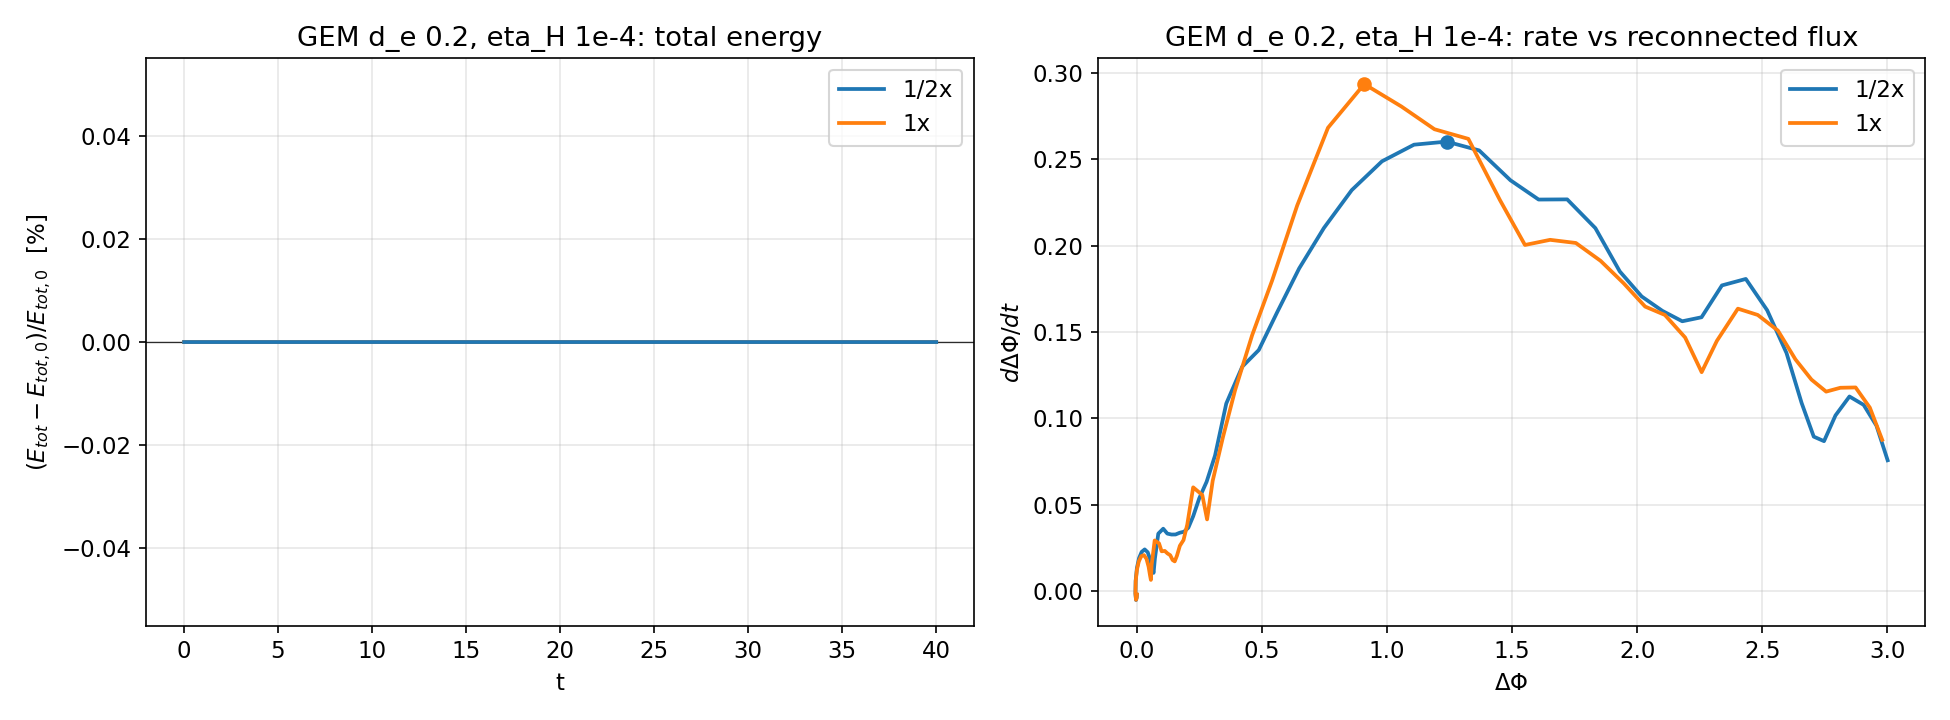
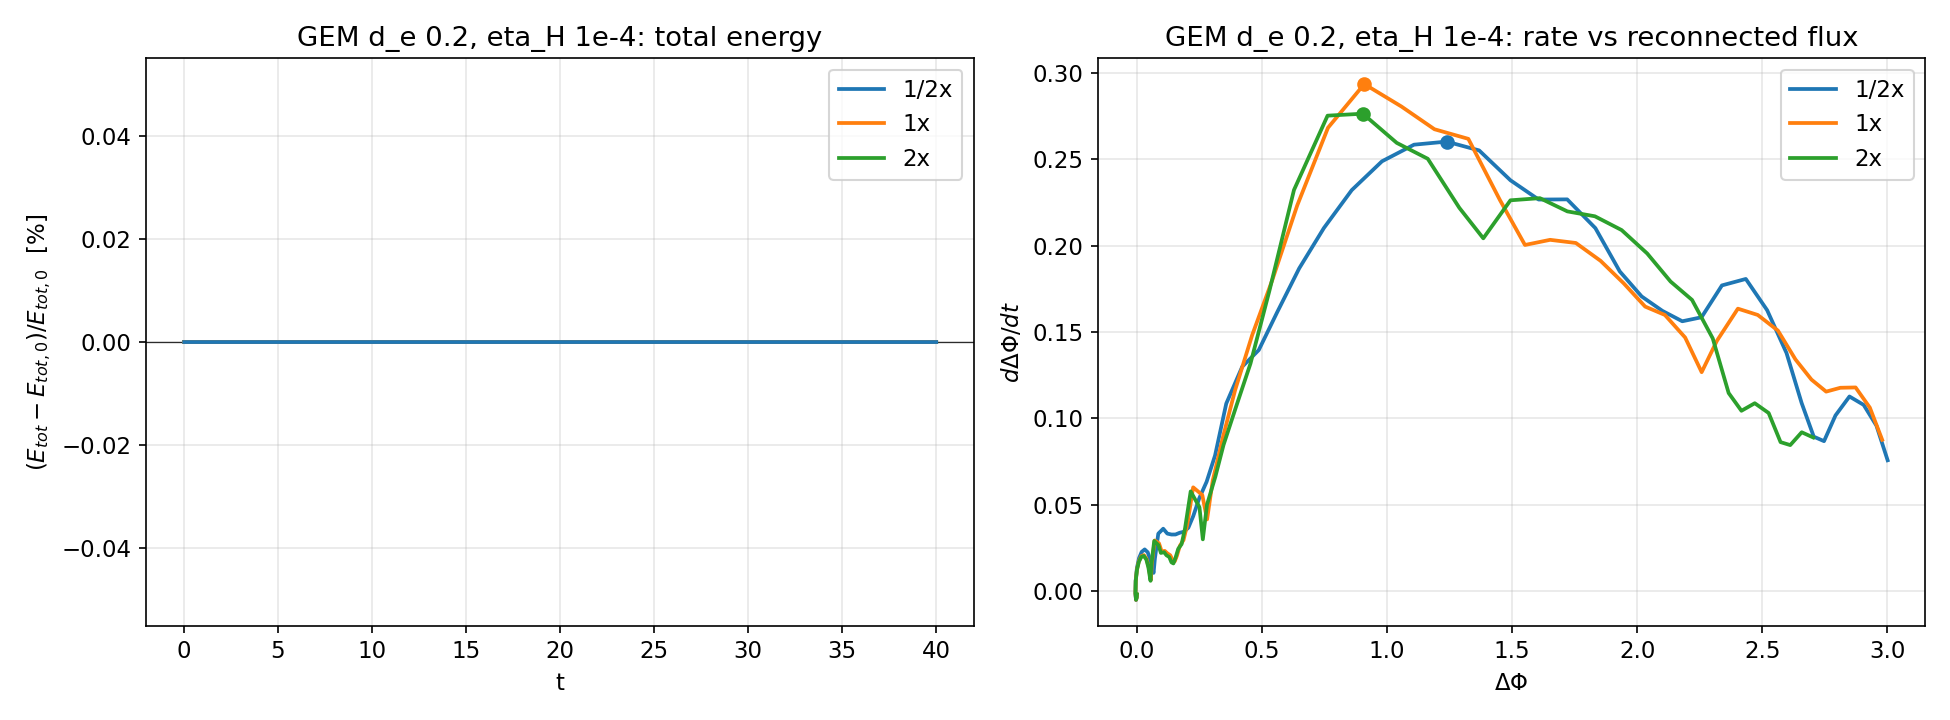
Results: 2x GEM row, figures with 1/2x, 1x and 2x
2x (d_e 0.2, eta_H 1e-4, c_whistler_inertia 0.5, to t = 40) from the development build; the
final IHMHD2d binary reproduces its EDRIFT and EM sub-step lines bit-for-bit to t = 1.
At 2x the grid-scale Hall mode is removed, but a physical-scale odd part (60-190 dx) grows
from round-off at the island onset (t = 18.5); the run is not mirror-symmetric after t = 19.

diff --git a/docs/results/results.md b/docs/results/results.md
@@ -1,6 +1,7 @@
 # IHMHD2d verification results
 
-All runs were made with the IHMHD2d binary at this commit's sources (built on macOS, MPICH, 10 ranks unless noted).
+All runs except the 2x GEM run were made with the IHMHD2d binary at this commit's sources (built on macOS, MPICH,
+10 ranks unless noted); see the GEM section for the 2x run.
 The run output is not in the repository; the numbers below are taken from it.
 
 ## Regression and unit tests (`make test`)
@@ -46,12 +47,29 @@ under x → −x, with the uncapped runs for comparison).
 |---|---|---|---|---|---|
 | ½x | 1.832 / 3.022 / 2.730 | 0.260 at t = 17.5 | 4.0e-12 / 4.7e-10 | 0 | 410 s |
 | 1x | 1.451 / 2.979 / 2.782 | 0.294 at t = 18.0 | 3.4e-11 / 4.6e-10 | 0 | 1772 s |
-| 2x | pending | pending | pending | pending | pending |
+| 2x | 1.289 / 2.770 / 2.381 | 0.276 at t = 18.5 | 2.7e-4 / 1.4e-2 | 0 | 4945 s |
 
-Without the capped upwinding (c_whistler_inertia = 0) a grid-scale (λ_x ≈ 3.3Δx) Hall mode breaks the x → −x
-symmetry from t ≈ 19; the u_y mirror error reaches 3.2e-4 (½x) and 1.6e-3 (1x) by t = 30.
-With c = 0.5 the mirror error stays at round-off until the plasmoid forms (t ≈ 25) and then grows slowly
-at physical wavelengths. c = 0.25 does not remove the mode (mirror defect 1.7e-4 by t = 22 at 1x).
+Island onset: ½x t = 22.0, 1x t = 25.0, 2x t = 18.5.
 
-The ½x and 1x runs are bit-identical to the development build they were ported from (all field files,
-energy_log, EDRIFT).
+Without the capped upwinding (c_whistler_inertia = 0) a grid-scale (λ_x ≈ 3Δx) Hall mode breaks the x → −x
+symmetry from t ≈ 19 at every resolution; the u_y mirror error reaches 3.2e-4 (½x), 1.6e-3 (1x) and 4.4e-4 (2x) by t = 30.
+c = 0.25 does not remove the mode (mirror defect 1.7e-4 by t = 22 at 1x).
+
+With c = 0.5:
+
+- ½x and 1x: the mirror error stays at round-off until the island forms (t = 22 and 25) and then grows slowly
+  (to about 5e-10 at t = 40) at physical wavelengths.
+- 2x: the grid-scale mode is gone, but the island forms earlier (t = 18.5), and an odd part with
+  λ_x ≈ 2–6 (60–190Δx) grows from round-off between t = 18.0 and 18.5, at the island onset
+  (output every 0.5 does not resolve the order more finely). It saturates near 1e-4 at t ≈ 19.5 and then
+  follows the uncapped 2x run within a factor of a few (2.7e-4 at t = 30, 1.4e-2 at t = 40). The scale says this is
+  a physical instability of the forming island amplifying round-off asymmetry, not the grid-scale mode;
+  the run is not mirror-symmetric after t ≈ 19.
+- There is a transient round-off bump of 1e-10 at t ≈ 7.5 at 2x, which decays by t = 10.
+
+The 2x run was made with the development build (fbcand3, whose EM step also contains the c_whistler_inertia speed).
+At 2x that term never binds: the final IHMHD2d binary reproduces its EDRIFT and EM sub-step lines bit-for-bit to
+t = 1 (1 EM sub-step per half step throughout, as in the full 2x run).
+
+The ½x and 1x runs were made with the final IHMHD2d binary and are bit-identical to the development build
+without the time-step term (all field files, energy_log, EDRIFT).
